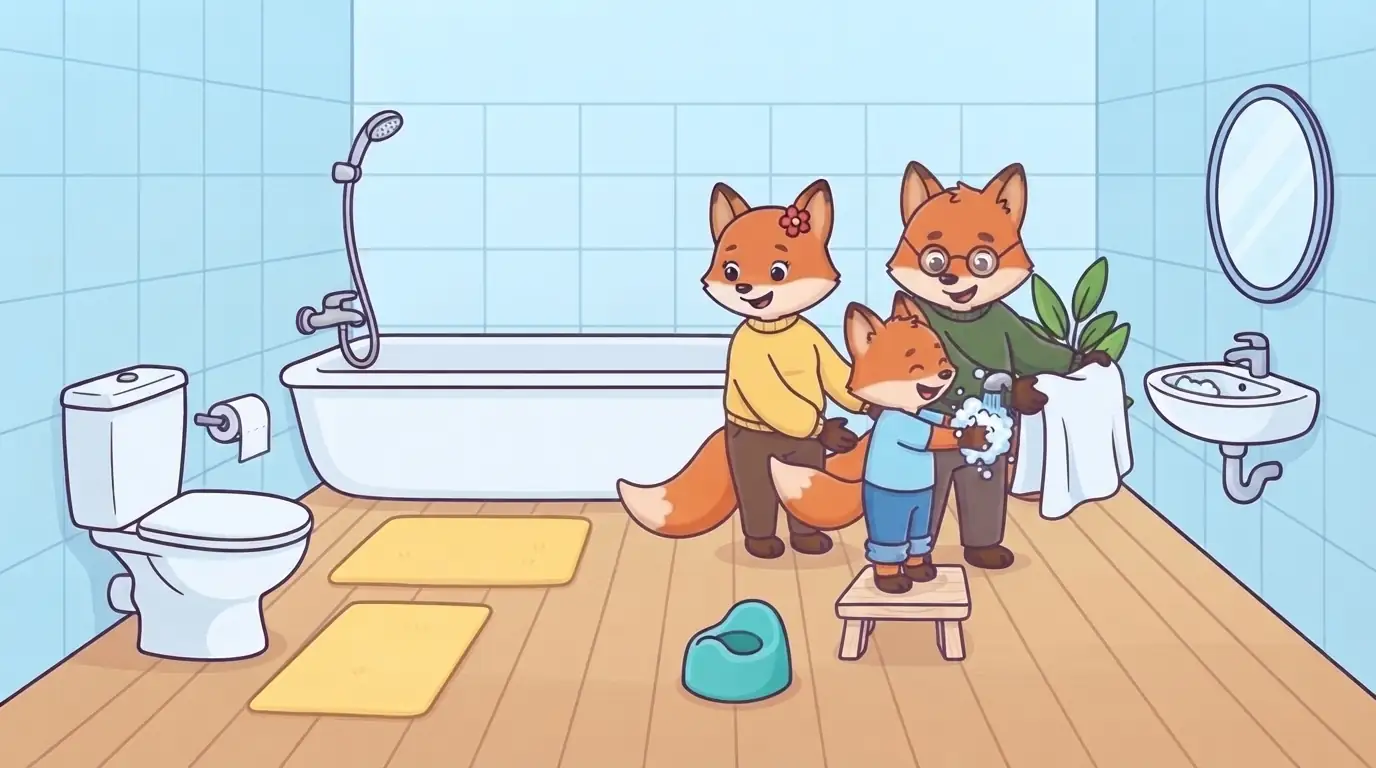
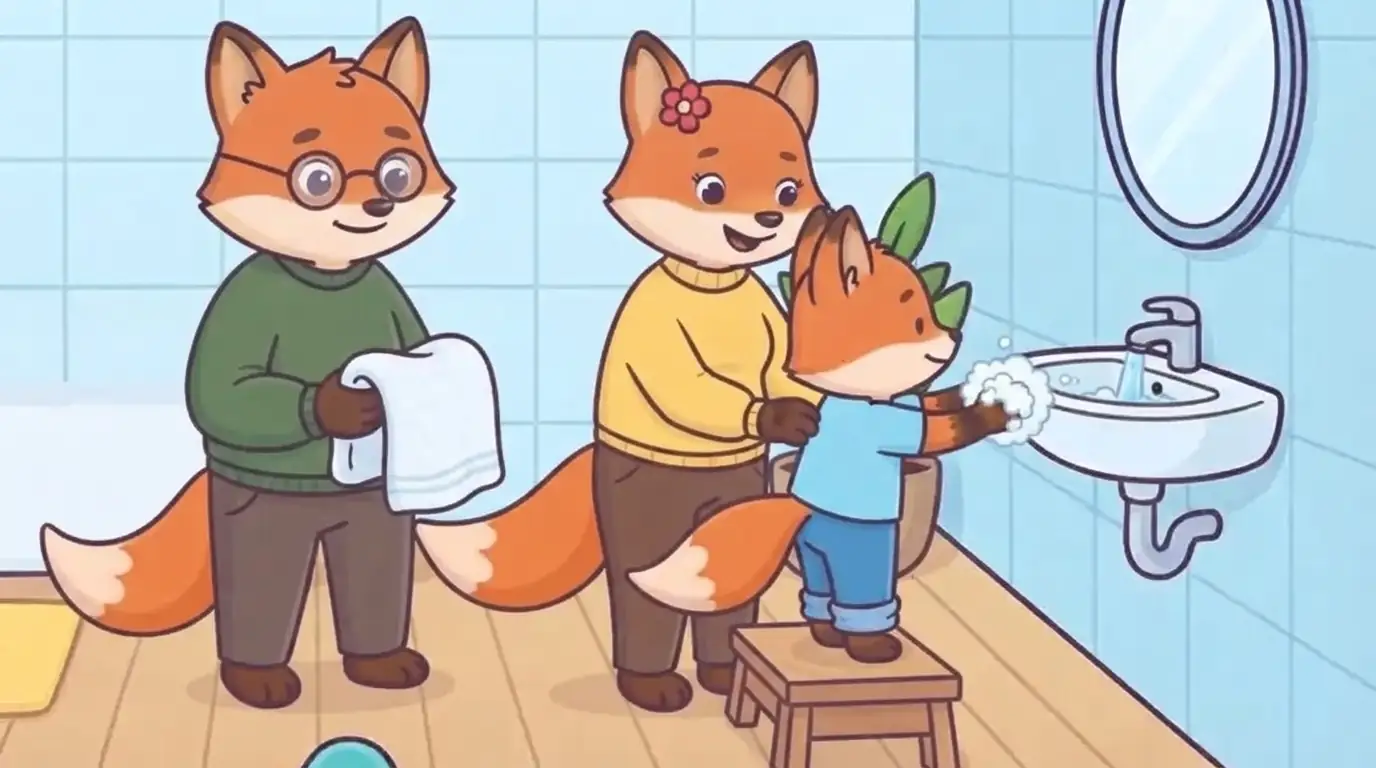
Aufs Töpfchen: hands are washed at the one sink, under its own tap, drawn closer from the sink corner

diff --git a/src/games/potty/potty.css b/src/games/potty/potty.css
@@ -51,6 +51,11 @@
   user-select: none;
 }
 
+/* Washing hands is drawn closer, the sink at the right: a tablet's narrower screen keeps the sink and the water whole. */
+.pt-at-wash .pt-picture img {
+  object-position: 70% 72%;
+}
+
 /* The base frame always shows, so the other only fades in over it – never a gap between the two. */
 .pt-picture img.base,
 .pt-picture img.on {

diff --git a/src/games/potty/bilder/prompts.py b/src/games/potty/bilder/prompts.py
@@ -73,18 +73,6 @@ def bathroom(a):
    "hoch": BATH_KEEP + cast(a) + f"Now this happens: {k} stands next to the potty and pulls the trousers up, big proud smile. Mama and Papa stand together and smile. " + END,
    "abziehen": BATH_KEEP + cast(a) + f"Now this happens: {k} stands on tiptoes at the toilet and presses the flush button on the toilet with one paw; Papa holds the empty potty, just emptied into the toilet, so there is no potty on the floor any more – only the one in Papa's paws; the water in the toilet swirls. Mama stands beside them and smiles. Trousers are up. " + END,
    # The first one had a second tap floating in the air in the middle of the room: the water must come from the sink's own tap.
-   "waschen": BATH_KEEP + cast(a) + (f"Now this happens: {k} stands on a small step stool right in front of the white sink below the round mirror on the right wall, "
-     "facing the sink (turned towards the wall, seen from the side), and holds both paws inside the basin right under the stream of water "
-     "that runs from that sink's own tap, with lots of white soap foam on the paws. "
-     # The third try had the water running in the sink while Tapsi rubbed its paws beside it, towards Papa's towel.
-     "The paws are in the water over the basin, not beside the sink. "
-     # The fourth try put a second, bigger basin in front of the sink and a new shelf on the left wall.
-     "The sink stays exactly the one small white sink of the reference picture, at its place and size: only ONE sink and ONE basin in the whole picture, "
-     "nothing added to the walls (no shelf, no towels on the wall). "
-     "There is only that one tap in the whole picture, fixed on the sink – no tap, pipe or water floating in the air anywhere else. "
-     "Mama stands right behind Tapsi and helps, Papa stands a step behind them, holding a towel ready for later. Trousers are up. "
-     # The second try drew Tapsi twice, once at the sink and once at Mama's paw in the middle.
-     "Only ONE fox child in the whole picture: Tapsi is at the sink and nowhere else – no second Tapsi at Mama's paw, in the middle of the room or peeking in from an edge. ") + END,
    "party": BATH_KEEP + cast(a) + f"Now this happens: {k} jumps for joy in the middle of the bathroom with both arms up, Mama and Papa jump and cheer too, colourful confetti in the air. Trousers are up. " + END,
   }
 
@@ -268,7 +256,26 @@ raw = lambda a, n: f".image-raw/{a}-{n}.png" if os.path.exists(f".image-raw/{a}-
 # A third argument names only some thoughts, so new ones are made without drawing the old ones again: think fox tee,erbsen
 wanted = lambda n: len(sys.argv) < 4 or n in sys.argv[3].split(",")
 
+# Washing hands is drawn closer, from the bathroom's sink corner: from the whole room (fox-bad) the Lite model kept the
+# family in the middle, far from the sink at the right edge, and gave Tapsi a tap of its own floating in the air there,
+# or a second basin – five tries. The reference is fox-bad cut to the sink corner:
+#   sharp("src/games/potty/bilder/fox-bad.webp").extract({ left: 541, top: 150, width: 835, height: 470 }).resize(1376, 774)
+#   → .image-raw/ref/bad-sink-wide.png
+SINK_REF = ".image-raw/ref/bad-sink-wide.png"
+def wash(a):
+  k = CAST[a]["kid_short"]
+  return ("Redraw this exact picture as a later moment of the same story: a closer view of the right corner of the family bathroom. "
+    "Keep the place exactly as it is: the same light blue tiled walls, the round mirror, the one small white sink with its tap and its pipe below, "
+    "the green potted plant, the wooden floor, the same camera framing (no zoom, no shift), the same colours and line style. "
+    "Only ONE sink, ONE basin and ONE tap in the whole picture, fixed on the wall where they are – nothing added to the walls, no tap, pipe or water in the air anywhere else. "
+    + cast(a) +
+    f"Now this happens: {k} stands on a small wooden step stool right in front of the sink, facing it (seen from the side, turned to the right towards the wall), "
+    "and holds both paws inside the basin right under the water that runs from the sink's tap, with lots of white soap foam on the paws. "
+    "Mama stands right behind Tapsi with a paw on its shoulder, Papa stands a step further left holding a towel ready for later. Trousers are up. "
+    "Only ONE fox child in the whole picture: Tapsi is at the sink and nowhere else. " + END)
+
 def stage(st, a):
+  if st == "wash": return [job(a, "waschen", wash(a), SINK_REF)]
   if st == "kitchen-first": return [job(a, "essen", kitchen(a)["essen"])]
   if st == "kitchen": return [job(a, n, p, raw(a, "essen")) for n, p in kitchen(a).items() if n != "essen"]
   if st == "bath-first": return [job(a, "bad", bathroom_first(a), raw(a, "rufen"))]  # a new room

diff --git a/src/games/potty/bilder/README.md b/src/games/potty/bilder/README.md
@@ -45,7 +45,10 @@ Ein einzelnes Bild neu zeichnen (ein Fehler darin): `prompts.py <stufe> fox <nam
 
 Worauf achten: Wasser kommt immer aus einem Hahn, der im Raum ist – beim Händewaschen steht Tapsi am Waschbecken,
 die Pfoten im Wasser darüber (das erste `waschen` hatte einen zweiten Hahn mitten in der Luft, ein späterer Versuch
-Tapsi zweimal und einer die Pfoten neben dem Becken). Hose runter zeigt nur Fell, das T-Shirt deckt den Bauch. In der Denkblase ist Tapsi immer ganz
+Tapsi zweimal und einer die Pfoten neben dem Becken). Jedes Ding im Bad gibt es genau einmal – ein Waschbecken, ein
+Hahn, ein Klo, ein Töpfchen; zähle sie in jedem Bild (ein Versuch hatte zwei Waschbecken). Was am Rand des ganzen Bads
+steht (das Waschbecken rechts), zeichnet das Lite-Modell nicht mit den Figuren daran: dafür einen Ausschnitt von
+`fox-bad` als Vorlage nehmen (`wash` in `prompts.py`), statt den Prompt immer länger zu machen. Hose runter zeigt nur Fell, das T-Shirt deckt den Bauch. In der Denkblase ist Tapsi immer ganz
 angezogen, hellblaues T-Shirt und blaue Hose (der Tunnel kam einmal ohne T-Shirt, mit „wearing its trousers“ im Prompt;
 jetzt nennt `thought` beides). Kaka im Töpfchen ist ein kleiner brauner
 Kringel ohne Gesicht. Was zählt, steht in der Mitte – am Rand nur Wand und Boden, weil Handys oben und unten,
